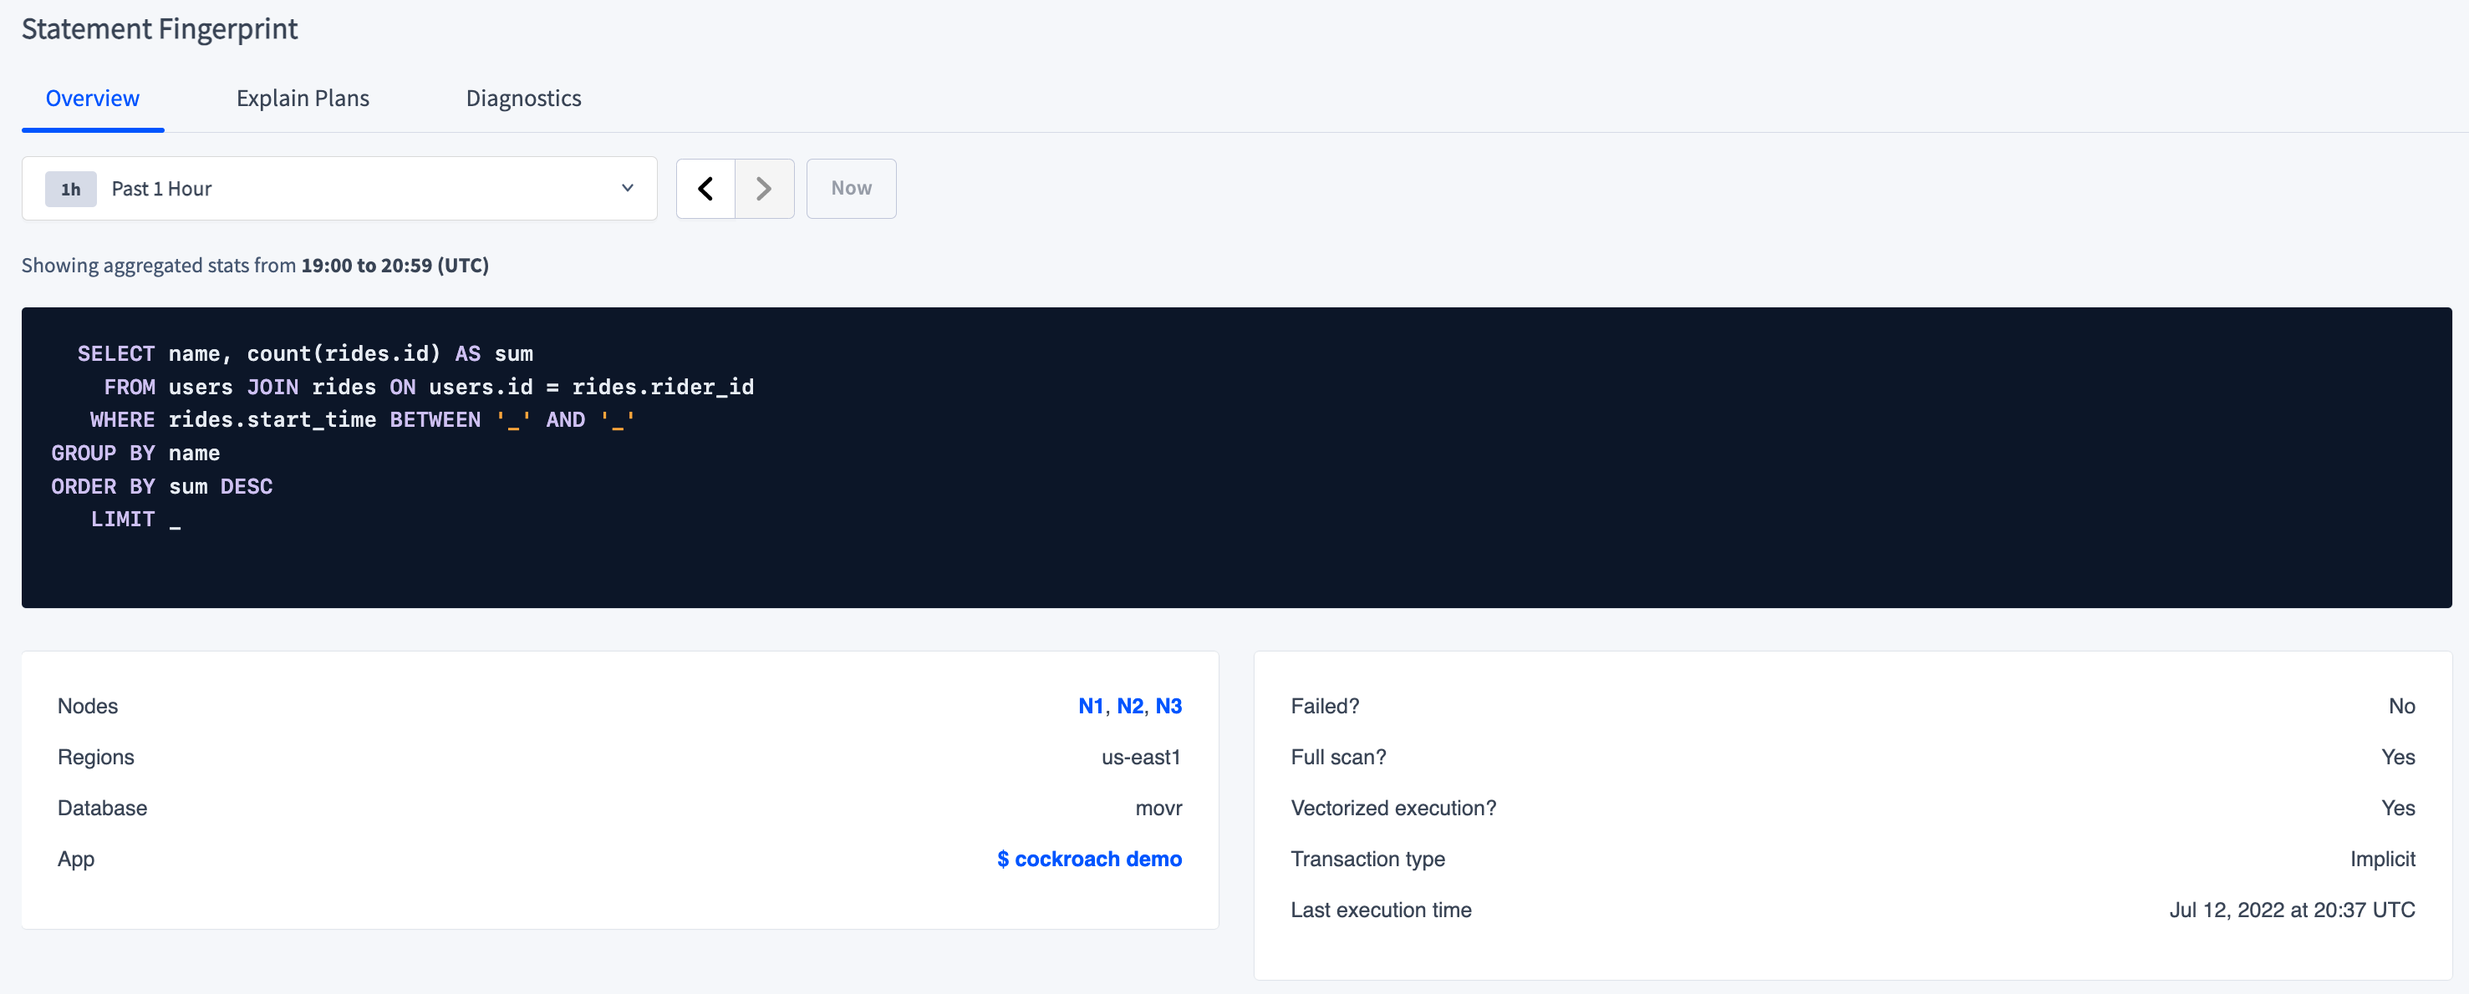
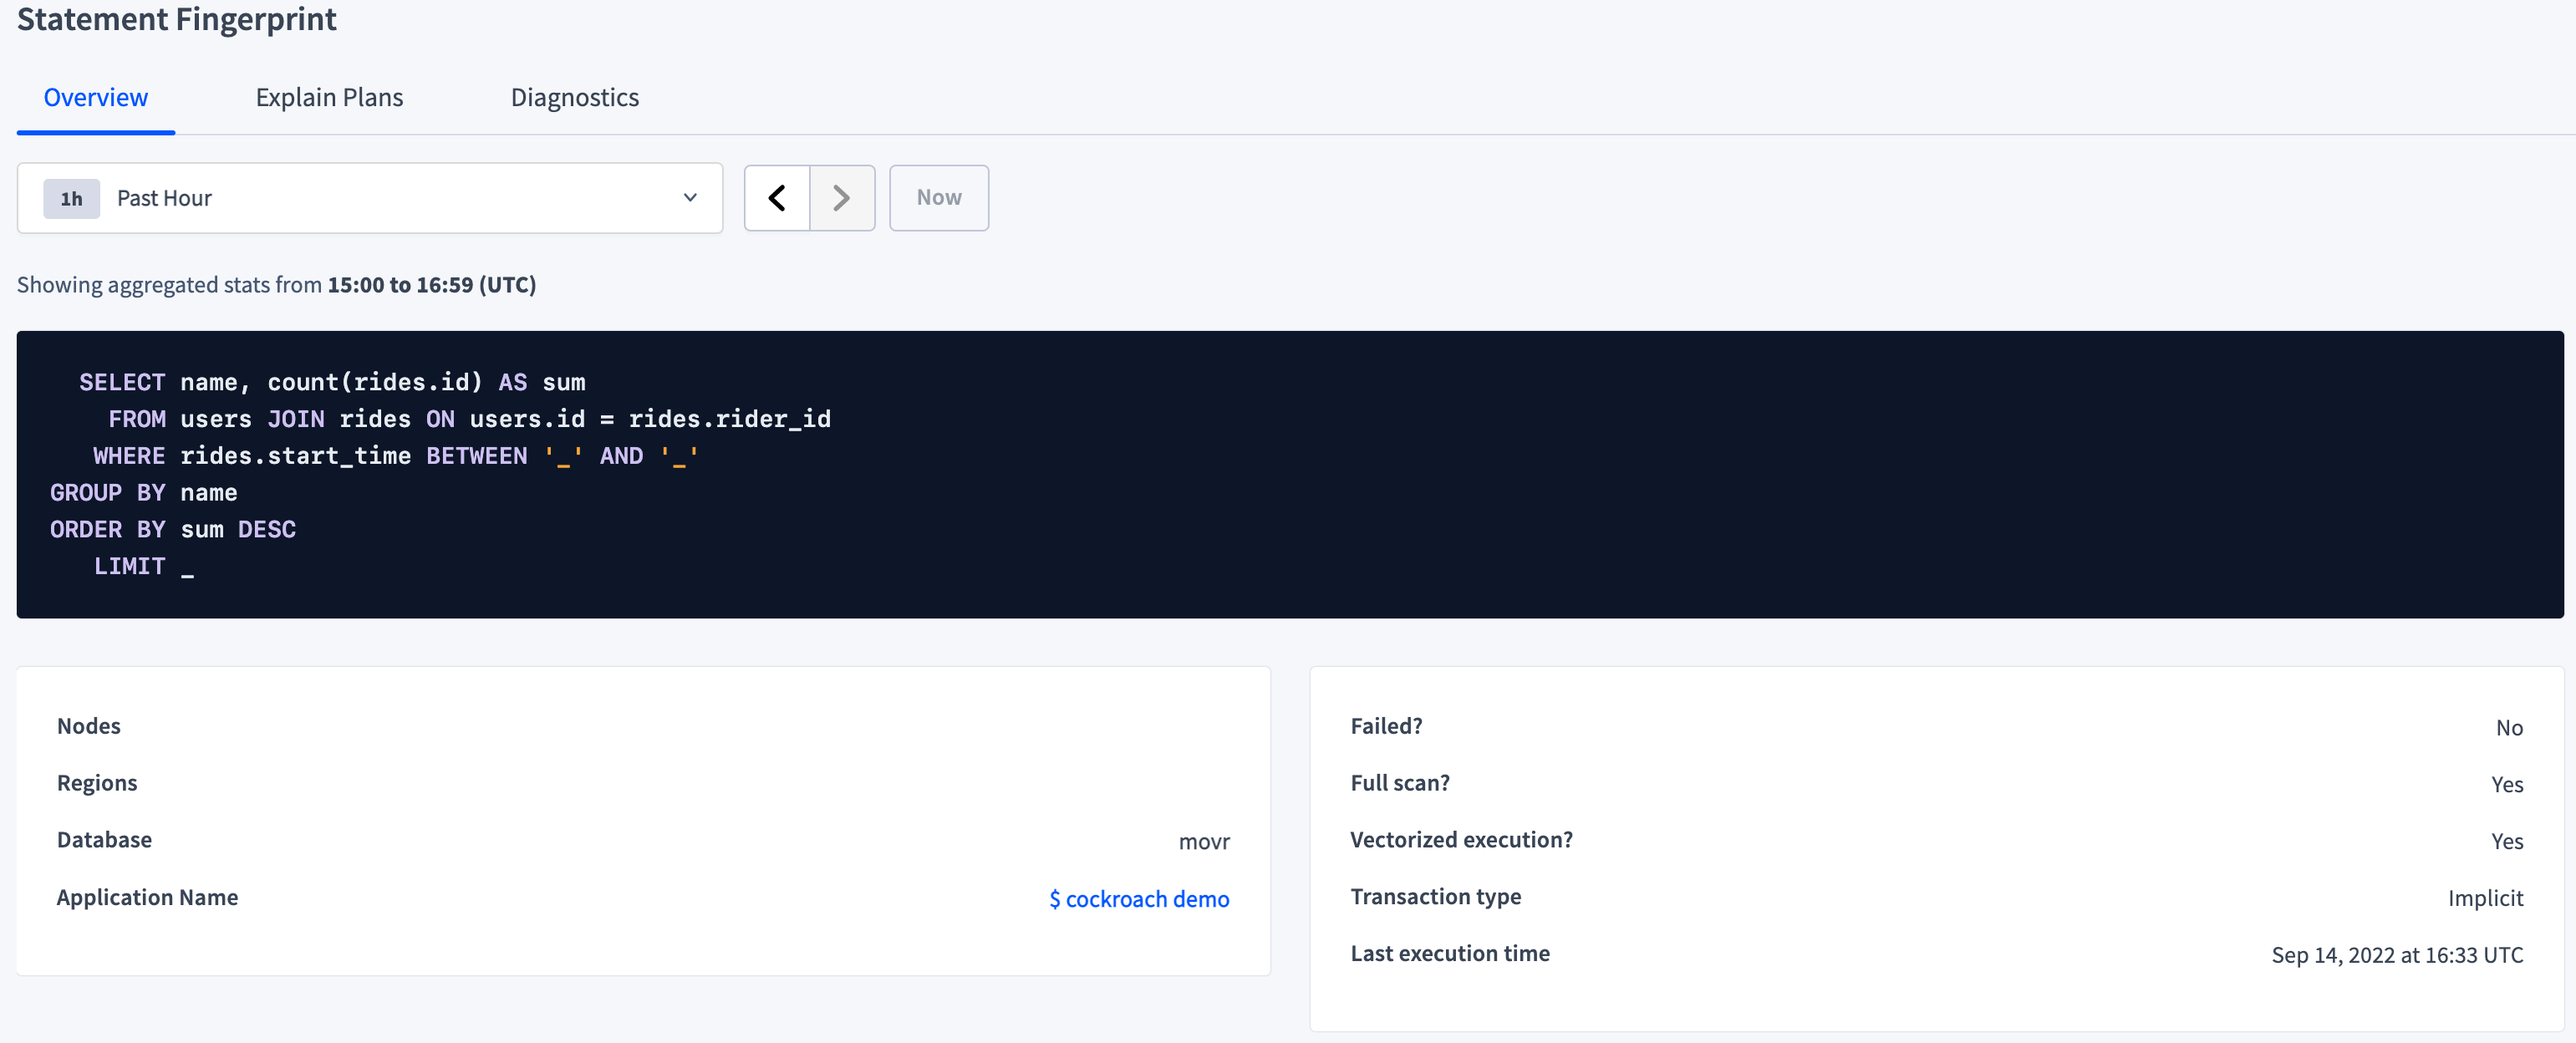
Some UI tweaks for Application Name.

diff --git a/_includes/v22.2/ui/statement-details.md b/_includes/v22.2/ui/statement-details.md
@@ -8,15 +8,15 @@ The details displayed on the **Statement Fingerprint** page reflect the [time in
 
 The **Overview** section displays the SQL statement fingerprint and execution attributes:
 
-- **Nodes**: the nodes on which the statements executed. Click a node ID to view node statistics. **Nodes** are not displayed for {{ site.data.products.serverless }} clusters.
-- **Regions**: the regions on which the statements executed. **Regions** are not displayed for {{ site.data.products.serverless }} clusters.
-- **Database**: the database on which the statements executed.
-- **App**: the name specified by the [`application_name`]({{ link_prefix }}show-vars.html#supported-variables) session setting. Click the name to view all statements run by that application.
-- **Failed?**: whether the statement failed to execute.
-- **Full scan?**: whether the execution performed a full scan of the table.
-- **Vectorized execution?**: whether the execution used the [vectorized execution engine]({{ link_prefix }}vectorized-execution.html).
-- **Transaction type**: the type of transaction ([implicit]({{ link_prefix }}transactions.html#individual-statements) or [explicit]({{ link_prefix }}transactions.html#sql-statements)).
-- **Last execution time**: when the statement was last executed.
+- **Nodes**: The nodes on which the statements executed. Click a node ID to view node statistics. **Nodes** are not displayed for {{ site.data.products.serverless }} clusters.
+- **Regions**: The regions on which the statements executed. **Regions** are not displayed for {{ site.data.products.serverless }} clusters.
+- **Database**: The database on which the statements executed.
+- **Application Name**: The name specified by the [`application_name`]({{ link_prefix }}show-vars.html#supported-variables) session setting. Click the name to view all statements run by that application.
+- **Failed?**: Whether the statement failed to execute.
+- **Full scan?**: Whether the execution performed a full scan of the table.
+- **Vectorized execution?**: Whether the execution used the [vectorized execution engine]({{ link_prefix }}vectorized-execution.html).
+- **Transaction type**: The type of transaction ([implicit]({{ link_prefix }}transactions.html#individual-statements) or [explicit]({{ link_prefix }}transactions.html#sql-statements)).
+- **Last execution time**: When the statement was last executed.
 
 Run the query described in [Use the right index]({{ link_prefix }}apply-statement-performance-rules.html#rule-2-use-the-right-index):
 
@@ -44,11 +44,11 @@ The following screenshot shows the statement fingerprint of the query:
 
 Charts following the execution attributes display statement fingerprint statistics:
 
-- **Statement Execution and Planning Time**: the time taken by the [planner]({{ link_prefix }}architecture/sql-layer.html#sql-parser-planner-executor) to create an execution plan and for CockroachDB to execute statements.
-- **Rows Processed**: the total number of rows read and written.
-- **Execution Retries**: the number of [retries]({{ link_prefix }}transactions.html#transaction-retries).
-- **Execution Count**: the total number of executions. It is calculated as the sum of first attempts and retries.
-- **Contention**: the amount of time spent waiting for resources.
+- **Statement Execution and Planning Time**: The time taken by the [planner]({{ link_prefix }}architecture/sql-layer.html#sql-parser-planner-executor) to create an execution plan and for CockroachDB to execute statements.
+- **Rows Processed**: The total number of rows read and written.
+- **Execution Retries**: The number of [retries]({{ link_prefix }}transactions.html#transaction-retries).
+- **Execution Count**: The total number of executions. It is calculated as the sum of first attempts and retries.
+- **Contention**: The amount of time spent waiting for resources.
 
 The following charts summarize the executions of the statement fingerprint illustrated in [Overview](#overview):
 

diff --git a/_includes/v22.2/ui/statements-table.md b/_includes/v22.2/ui/statements-table.md
@@ -9,6 +9,7 @@ Column | Description
 Statements | SQL statement [fingerprint](#sql-statement-fingerprints). To view additional details, click the SQL statement fingerprint to open its [Statement Fingerprint page]({{ page_prefix }}statements-page.html#statement-fingerprint-page).
 Execution Count | Cumulative number of executions of statements with this fingerprint within the [time interval](#time-interval). <br><br>The bar indicates the ratio of runtime success (gray) to [retries]({{ link_prefix }}transactions.html#transaction-retries) (red) for the SQL statement fingerprint.
 Database | The database in which the statement was executed.
+Application Name | The name specified by the [`application_name`]({{ link_prefix }}show-vars.html#supported-variables) session setting. Click the name to view all statements run by that application.
 Rows Processed | Average number of rows read and written while executing statements with this fingerprint within the time interval.
 Bytes Read | Aggregation of all bytes [read from disk]({{ link_prefix }}architecture/life-of-a-distributed-transaction.html#reads-from-the-storage-layer) across all operators for statements with this fingerprint within the time interval. <br><br>The gray bar indicates the mean number of bytes read from disk. The blue bar indicates one standard deviation from the mean. Hover over the bar to display exact values.
 Statement Time | Average [planning and execution time]({{ link_prefix }}architecture/sql-layer.html#sql-parser-planner-executor) of statements with this statement fingerprint within the time interval. <br><br>The gray bar indicates the mean latency. The blue bar indicates one standard deviation from the mean. Hover over the bar to display exact values.
@@ -19,8 +20,8 @@ Retries | Cumulative number of automatic (internal) [retries]({{ link_prefix }}t
 % of All Runtime | How much time this statement fingerprint took to execute compared to all other statements that were executed within the time period. It is expressed as a percentage. The runtime is the mean execution latency multiplied by the execution count.
 Regions/Nodes | The regions and nodes on which statements with this fingerprint executed. <br><br>Regions/Nodes is not visible for {{ site.data.products.serverless }} clusters.
 Diagnostics | Activate and download [diagnostics](#diagnostics) for this fingerprint. To activate, click the **Activate** button. The [Activate statement diagnostics](#activate-diagnostics-collection-and-download-bundles) dialog displays. After you complete the dialog, the column displays the status of diagnostics collection (**WAITING**, **READY**, or **ERROR**). Click <img src="{{ 'images/common/ui-ellipsis-button.png' | relative_url }}" alt="Bundle selector" /> and select a bundle to download or select **Cancel request** to cancel diagnostics bundle collection. <br><br>Statements are periodically cleared from the Statements page based on the start time. To access the full history of diagnostics for the fingerprint, see the [Diagnostics](#diagnostics) tab of the Statement Details page. <br><br>Diagnostics is not visible for {{ site.data.products.serverless }} clusters.
-- Last Execution Time (UTC)| When the statement was last executed.
-- Statement Fingerprint ID | The ID of the statement fingerprint.
+Last Execution Time (UTC)| When the statement was last executed.
+Statement Fingerprint ID | The ID of the statement fingerprint.
 
 {{site.data.alerts.callout_info}}
 To obtain the execution statistics, CockroachDB samples a percentage of the executions. If you see `no samples` displayed in the **Contention**, **Max Memory**, or **Network** columns, there are two possibilities:

diff --git a/_includes/v22.2/ui/transaction-details.md b/_includes/v22.2/ui/transaction-details.md
@@ -3,13 +3,14 @@
 The details displayed on the **Transaction Details** page reflect the [time interval](#time-interval) selected on the **Transactions** page.
 
 - The _transaction fingerprint_ is displayed as a list of the individual [SQL statement fingerprints]({{ page_prefix }}statements-page.html#sql-statement-fingerprints) in the transaction.
-- The **Mean transaction time**: the mean average time it took to execute the transaction within the aggregation interval.
+- The **Mean transaction time**: The mean average time it took to execute the transaction within the aggregation interval.
+- The **Application name**: The name specified by the [`application_name`]({{ link_prefix }}show-vars.html#supported-variables) session setting.
 - **Transaction resource usage** shows overall statistics about the transaction.
-    - **Mean rows/bytes read**: the mean average number of rows and bytes [read from the storage layer]({{ link_prefix }}architecture/life-of-a-distributed-transaction.html#reads-from-the-storage-layer) during the execution of the transaction within the specified aggregation interval.
-    - **Bytes read over network**: the amount of [data transferred over the network]({{ link_prefix }}architecture/reads-and-writes-overview.html) for this transaction within the aggregation interval. <br><br>If this value is 0, the statement was executed on a single node.
-    - **Mean rows written**: the mean number of rows written by this transaction.
-    - **Max memory usage**: the maximum memory used by this transaction at any time during its execution within the aggregation interval.
-    - **Max scratch disk usage**: the maximum amount of data [spilled to temporary storage on disk]({{ link_prefix }}vectorized-execution.html#disk-spilling-operations) while executing this transaction within the aggregation interval.
+    - **Mean rows/bytes read**: The mean average number of rows and bytes [read from the storage layer]({{ link_prefix }}architecture/life-of-a-distributed-transaction.html#reads-from-the-storage-layer) during the execution of the transaction within the specified aggregation interval.
+    - **Bytes read over network**: The amount of [data transferred over the network]({{ link_prefix }}architecture/reads-and-writes-overview.html) for this transaction within the aggregation interval. <br><br>If this value is 0, the statement was executed on a single node.
+    - **Mean rows written**: The mean number of rows written by this transaction.
+    - **Max memory usage**: The maximum memory used by this transaction at any time during its execution within the aggregation interval.
+    - **Max scratch disk usage**: The maximum amount of data [spilled to temporary storage on disk]({{ link_prefix }}vectorized-execution.html#disk-spilling-operations) while executing this transaction within the aggregation interval.
 
 
 The [Statements page]({{ page_prefix }}statements-page.html) displays the statement fingerprints of all the statements in the transaction. To display the [details of a statement fingerprint]({{ page_prefix }}statements-page.html#statement-fingerprint-page), click a statement fingerprint.

diff --git a/_includes/v22.2/ui/transactions-table.md b/_includes/v22.2/ui/transactions-table.md
@@ -8,6 +8,7 @@ Column | Description
 -----|------------
 Transactions | The [SQL statement fingerprints]({{ page_prefix }}statements-page.html#sql-statement-fingerprints) that make up the transaction. To view the transaction fingerprint and details, click to open the [Transaction Details page](#transaction-details-page).
 Execution Count | Cumulative number of executions of this transaction within the [time interval](#time-interval). <br><br>The bar indicates the ratio of runtime success (gray) to [retries]({{ link_prefix }}transactions.html#transaction-retries) (red) for the transaction.
+Application Name | The name specified by the [`application_name`]({{ link_prefix }}show-vars.html#supported-variables) session setting. Click the name to view all statements run by that application.
 Rows Processed | Average number of rows read and written while executing statements with this fingerprint within the time interval.
 Bytes Read | Aggregation of all bytes [read from disk]({{ link_prefix }}architecture/life-of-a-distributed-transaction.html#reads-from-the-storage-layer) across all operators for this transaction within the time interval. <br><br>The gray bar indicates the mean number of bytes read from disk. The blue bar indicates one standard deviation from the mean.
 Transaction Time | Average [planning and execution time]({{ link_prefix }}architecture/sql-layer.html#sql-parser-planner-executor) of this transaction within the time interval. <br><br>The gray bar indicates the mean latency. The blue bar indicates one standard deviation from the mean.

diff --git a/v22.2/ui-insights-page.md b/v22.2/ui-insights-page.md
@@ -142,7 +142,7 @@ To display this view, click **Insights** in the left-hand navigation of the DB C
 This view lists the indexes that have not been used and should be dropped and or the ones that should be created, altered, or replaced (based on statement execution).
 
 - The drop recommendations are the same as those on the [Databases](ui-databases-page.html) page.
-- The create, alter, and replace recommendations are the same as those on the [Explain Plans tab](ui-statements-page.html#insights) on the Statements page. The Explain Plans tab shows all recommendations, however this page shows only the latest recommendations for that statement fingerprint.
+- The create, alter, and replace recommendations are the same as those on the [Explain Plans tab](ui-statements-page.html#insights) on the Statements page. The Explain Plans tab shows all recommendations, however this page shows only the latest recommendations for that statement fingerprint. If you execute a statement again after creating or updating an index, the recommendation disappears.
 
 The following screenshot shows the insight that displays after you run the query described in [Use the right index]({{ link_prefix }}apply-statement-performance-rules.html#rule-2-use-the-right-index) 6 or more times:
 
